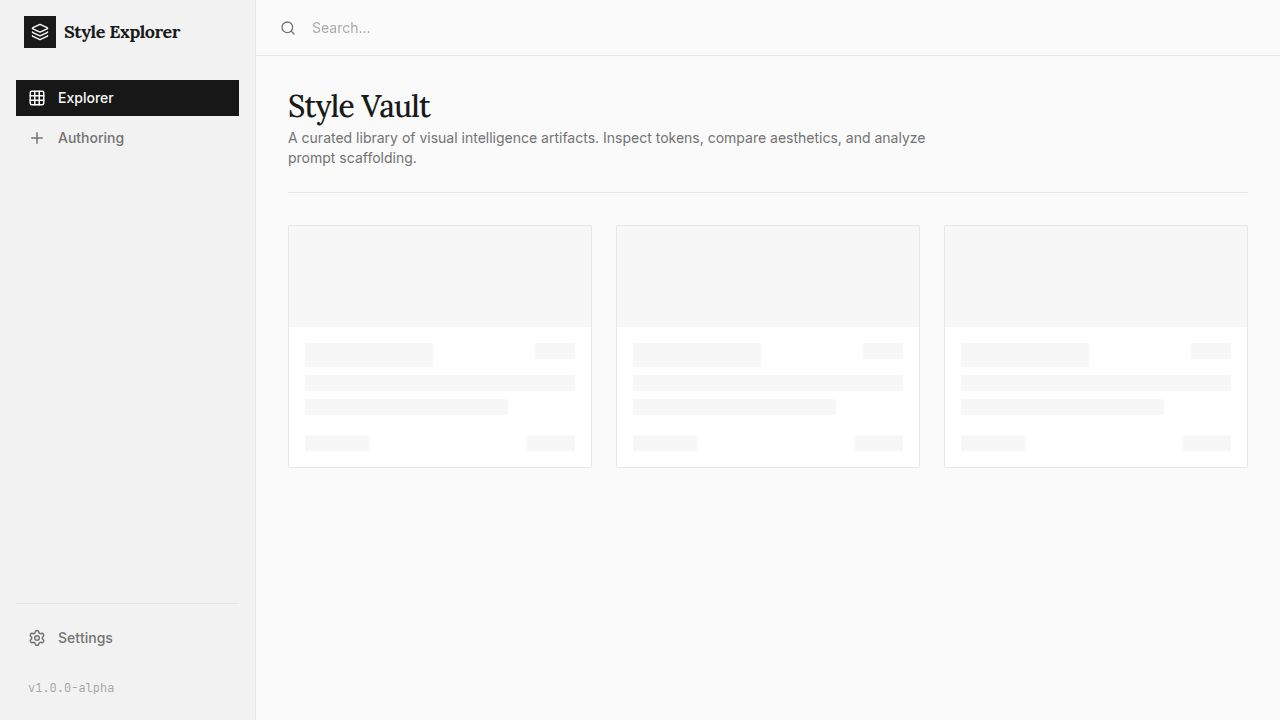
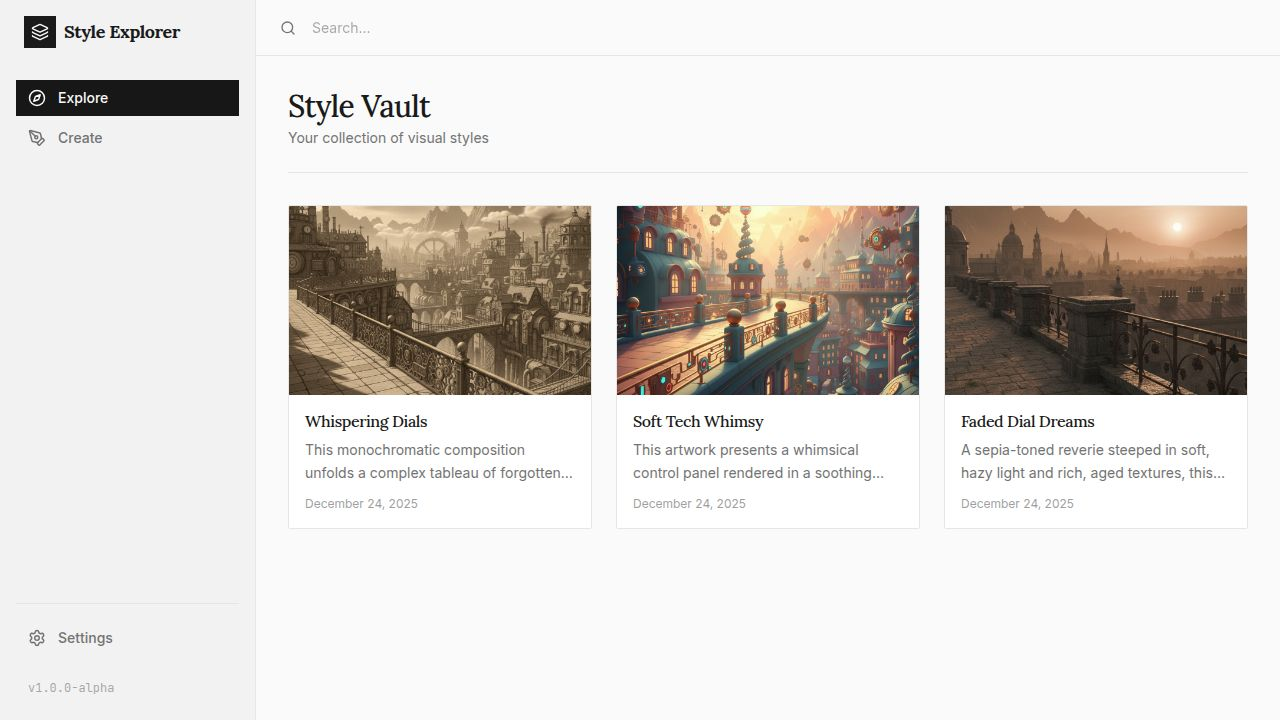
Improve Style Explorer performance and interactivity
Memoize StyleCard component, stabilize delete callbacks, and configure React Query for stale-while-revalidate behavior on the Explore page.

Replit-Commit-Author: Agent
Replit-Commit-Session-Id: fa657e97-1ed4-4895-900b-776ff19d22ff
Replit-Commit-Checkpoint-Type: intermediate_checkpoint
Replit-Commit-Event-Id: 3ead5f7e-1ad6-4c1d-b05d-1d6239ff027e
Replit-Commit-Screenshot-Url: https://storage.googleapis.com/screenshot-production-us-central1/e43eaa2a-55da-4e99-b18b-f69fb4f8d631/fa657e97-1ed4-4895-900b-776ff19d22ff/Ni4Kf7n
Replit-Helium-Checkpoint-Created: true

diff --git a/client/src/components/style-card.tsx b/client/src/components/style-card.tsx
@@ -1,7 +1,7 @@
 import { cn } from "@/lib/utils";
 import { Trash2, AlertCircle, Palette } from "lucide-react";
 import { Link } from "wouter";
-import { useEffect, useState, useCallback } from "react";
+import { memo, useEffect, useState, useCallback } from "react";
 import { trackStyleView } from "@/lib/suggestions";
 import { motion, AnimatePresence } from "framer-motion";
 import { queryClient } from "@/lib/queryClient";
@@ -24,7 +24,7 @@ interface StyleCardProps {
   onDelete?: (id: string) => void;
 }
 
-export function StyleCard({ style, className, onDelete }: StyleCardProps) {
+const StyleCardComponent = memo(function StyleCard({ style, className, onDelete }: StyleCardProps) {
   const [isDragging, setIsDragging] = useState(false);
   const [dragX, setDragX] = useState(0);
   const [showConfirmDialog, setShowConfirmDialog] = useState(false);
@@ -44,19 +44,36 @@ export function StyleCard({ style, className, onDelete }: StyleCardProps) {
     });
   }, [style.id]);
 
-  const handleDragEnd = (info: any) => {
+  const handleDragEnd = useCallback((info: any) => {
     if (info.offset.x < -100 || info.velocity.x < -500) {
       setShowConfirmDialog(true);
       setDragX(0);
     } else {
       setDragX(0);
     }
-  };
+  }, []);
 
-  const handleConfirmDelete = () => {
+  const handleConfirmDelete = useCallback(() => {
     onDelete?.(style.id);
     setShowConfirmDialog(false);
-  };
+  }, [onDelete, style.id]);
+
+  const handleCancelDelete = useCallback(() => {
+    setShowConfirmDialog(false);
+  }, []);
+
+  const handleDragStart = useCallback(() => {
+    setIsDragging(true);
+  }, []);
+
+  const handleDrag = useCallback((_: any, info: any) => {
+    setDragX(info.offset.x);
+  }, []);
+
+  const handleDragEndWrapper = useCallback((_: any, info: any) => {
+    setIsDragging(false);
+    handleDragEnd(info);
+  }, [handleDragEnd]);
 
   return (
     <>
@@ -64,14 +81,9 @@ export function StyleCard({ style, className, onDelete }: StyleCardProps) {
         drag="x"
         dragElastic={0.2}
         dragConstraints={{ left: -120, right: 0 }}
-        onDragStart={() => setIsDragging(true)}
-        onDragEnd={(_, info) => {
-          setIsDragging(false);
-          handleDragEnd(info);
-        }}
-        onDrag={(_, info) => {
-          setDragX(info.offset.x);
-        }}
+        onDragStart={handleDragStart}
+        onDragEnd={handleDragEndWrapper}
+        onDrag={handleDrag}
         className={cn("relative", className)}
       >
         {/* Swipe delete indicator */}
@@ -118,6 +130,9 @@ export function StyleCard({ style, className, onDelete }: StyleCardProps) {
                   className="absolute inset-0 w-full h-full object-cover"
                   draggable={false}
                   loading="lazy"
+                  decoding="async"
+                  width={400}
+                  height={250}
                 />
               ) : (
                 <div className="flex-1 h-full flex items-center justify-center bg-gradient-to-br from-muted to-muted/50">
@@ -159,7 +174,7 @@ export function StyleCard({ style, className, onDelete }: StyleCardProps) {
             animate={{ opacity: 1 }}
             exit={{ opacity: 0 }}
             className="fixed inset-0 bg-black/50 flex items-center justify-center z-50"
-            onClick={() => setShowConfirmDialog(false)}
+            onClick={handleCancelDelete}
           >
             <motion.div
               initial={{ scale: 0.95, opacity: 0 }}
@@ -182,7 +197,7 @@ export function StyleCard({ style, className, onDelete }: StyleCardProps) {
 
               <div className="flex gap-3 mt-6">
                 <button
-                  onClick={() => setShowConfirmDialog(false)}
+                  onClick={handleCancelDelete}
                   className="flex-1 px-4 py-2 text-sm font-medium border border-border rounded-lg hover:bg-muted transition-colors text-foreground"
                   data-testid="button-cancel-delete"
                 >
@@ -203,4 +218,6 @@ export function StyleCard({ style, className, onDelete }: StyleCardProps) {
       </AnimatePresence>
     </>
   );
-}
+});
+
+export { StyleCardComponent as StyleCard };

diff --git a/client/src/pages/Explore.tsx b/client/src/pages/Explore.tsx
@@ -4,6 +4,7 @@ import { StyleCardSkeleton } from "@/components/style-card-skeleton";
 import { Layout } from "@/components/layout";
 import { motion, AnimatePresence } from "framer-motion";
 import { RefreshCw, PenTool } from "lucide-react";
+import { useCallback } from "react";
 import { Button } from "@/components/ui/button";
 import { useQuery, useMutation, useQueryClient } from "@tanstack/react-query";
 import { Link } from "wouter";
@@ -19,6 +20,7 @@ export default function Explore() {
       return response.json();
     },
     staleTime: 60000,
+    refetchOnWindowFocus: true,
     retry: 3,
     retryDelay: (attempt) => Math.min(500 * attempt, 2000),
   });
@@ -32,11 +34,11 @@ export default function Explore() {
     },
   });
 
-  const handleStyleDelete = async (deletedId: string) => {
+  const handleStyleDelete = useCallback((deletedId: string) => {
     deleteMutation.mutate(deletedId);
-  };
+  }, [deleteMutation]);
 
-  const handleRetry = () => refetch();
+  const handleRetry = useCallback(() => refetch(), [refetch]);
 
   if (isLoading) {
     return (
